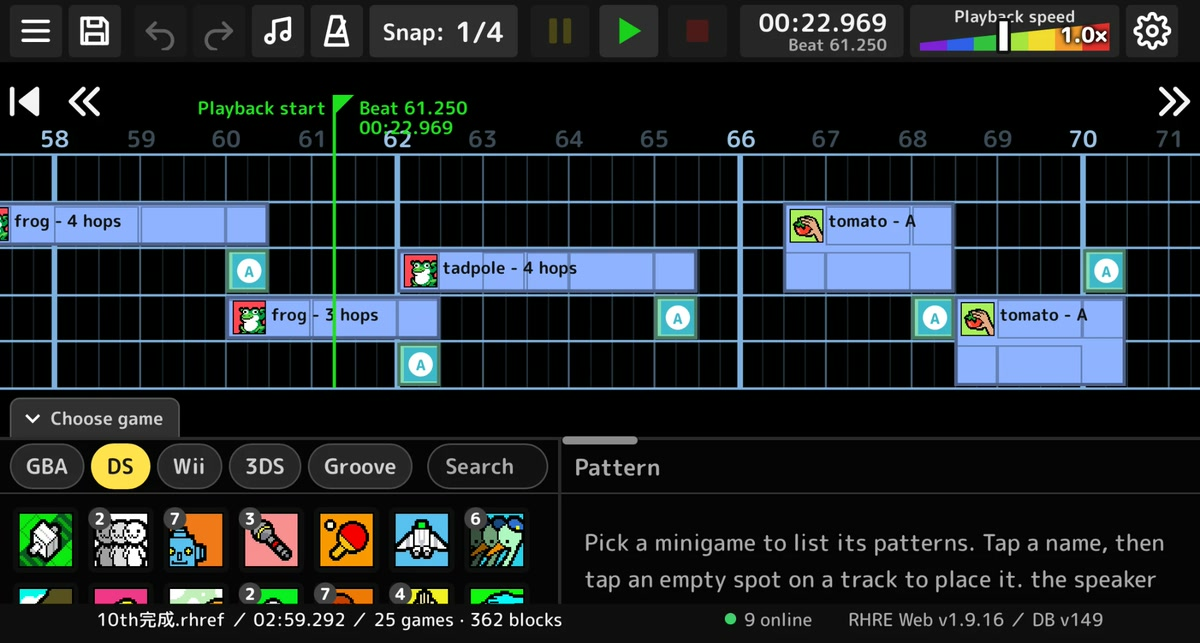
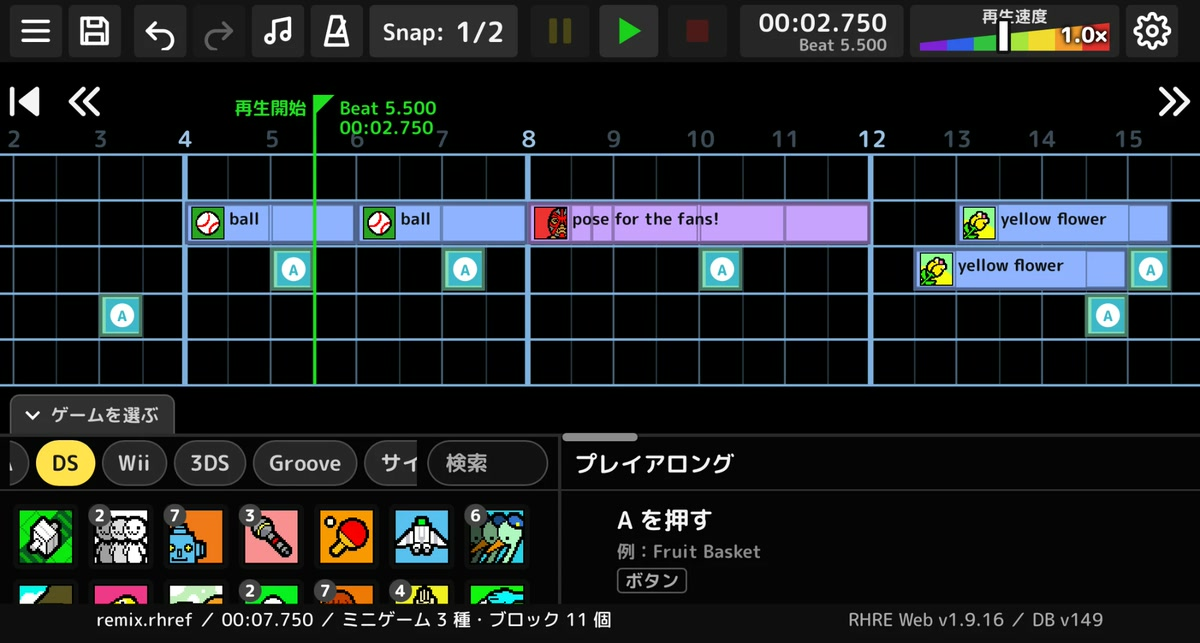
v1.9.18：リンクの画像を、本人が撮り直した画面に差し替える（日本語のページは日本語の画面、英語のページは英語の画面。1200×643）

diff --git a/index.html b/index.html
@@ -19,7 +19,7 @@
 <meta property="og:title" content="RHRE Web">
 <meta property="og:description" content="RHRE Web へようこそ！好きな曲に、リズム天国の効果音をのせて、自分だけのリミックスが作れちゃう！スマホやPCのブラウザですぐ遊べる、ファンメイドの無料エディタです。RHRE fresh（PC版）とも互換性あり。">
 <meta property="og:url" content="https://pika1013.github.io/rhre-web/">
-<meta property="og:image" content="https://pika1013.github.io/rhre-web/assets/og/og-ja.jpg?v=2">
+<meta property="og:image" content="https://pika1013.github.io/rhre-web/assets/og/og-ja.jpg?v=3">
 <meta property="og:image:width" content="1200">
 <meta property="og:image:height" content="643">
 <meta property="og:image:alt" content="RHRE Web の編集画面">
@@ -921,7 +921,7 @@
     </div>
     <div id="psTouch" aria-label="タッチの枠（タッチ・はじく・スライド）"><canvas></canvas></div>
   </section>
-  <footer id="status"><span id="statusText">読み込み中…</span><span id="onlineCount" hidden></span><span id="version">RHRE Web v1.9.17</span></footer>
+  <footer id="status"><span id="statusText">読み込み中…</span><span id="onlineCount" hidden></span><span id="version">RHRE Web v1.9.18</span></footer>
 </div>
 
 <div class="popover" id="snapMenu" hidden role="menu" aria-label="スナップ"></div>
@@ -1212,7 +1212,7 @@
 
 <div class="modal" id="helpModal" hidden>
   <div class="card">
-    <h2>RHRE Web v1.9.17</h2>
+    <h2>RHRE Web v1.9.18</h2>
     <div id="helpJa">
     <p>RHRE fresh の .rhref を開いて、デスクトップ版と同じ規則で再生・編集します。効果音は RHRE fresh と同じデータベースから、使う分だけ読み込みます。</p>
     <p><b>見る</b></p>
@@ -1323,7 +1323,7 @@
 <input type="file" id="musicInput" accept="audio/*,.mp3,.ogg,.wav,.m4a,.aac,.flac" hidden>
 <input type="file" id="imageInput" accept="image/*" hidden>
 <input type="file" id="customInput" accept="audio/*,.mp3,.ogg,.wav,.m4a,.aac,.flac" multiple hidden>
-<script type="module" src="js/app.js?v=97"></script>
+<script type="module" src="js/app.js?v=98"></script>
 <!-- アクセス数（GoatCounter：Cookie なし・個人を特定する情報は集めない）。
      更新したときの ?u=… などで別のページに分かれないように、ページ名は場所だけにする -->
 <script>window.goatcounter = { path: function () { return location.pathname || '/'; } };</script>

diff --git a/en/index.html b/en/index.html
@@ -16,7 +16,7 @@
 <meta property="og:title" content="RHRE Web – Make Rhythm Heaven remixes in your browser">
 <meta property="og:description" content="Put Rhythm Heaven sound effects on your favorite songs and make your own remixes, right in your phone or PC browser. Free, fan-made, and compatible with RHRE fresh.">
 <meta property="og:url" content="https://pika1013.github.io/rhre-web/en/">
-<meta property="og:image" content="https://pika1013.github.io/rhre-web/assets/og/og-en.jpg?v=2">
+<meta property="og:image" content="https://pika1013.github.io/rhre-web/assets/og/og-en.jpg?v=3">
 <meta property="og:image:width" content="1200">
 <meta property="og:image:height" content="643">
 <meta property="og:image:alt" content="The RHRE Web editor">
@@ -119,7 +119,7 @@
   </div>
 
   <figure class="shot">
-    <img src="../assets/og/og-en.jpg?v=2" alt="The RHRE Web editor: remix blocks on tracks, with the minigame list and pattern list below" width="1200" height="643">
+    <img src="../assets/og/og-en.jpg?v=3" alt="The RHRE Web editor: remix blocks on tracks, with the minigame list and pattern list below" width="1200" height="643">
   </figure>
 
   <section>

diff --git a/js/changelog.js b/js/changelog.js
@@ -3,6 +3,11 @@
 // 使う人に向けた短い言葉で書く。隠し機能は書かない
 export const CHANGELOG = [
   {
+    v: '1.9.18', date: '2026-11-13',
+    ja: ['リンクを貼ったときに出る画像を、日本語のページは日本語の画面、英語のページは英語の画面にしました'],
+    en: ['The picture shown when you share a link now matches the page language (Japanese screen for the Japanese page, English screen for the English page).'],
+  },
+  {
     v: '1.9.17', date: '2026-11-13',
     ja: ['リンクを貼ったときに出る画像を変えました'],
     en: ['Changed the picture shown when you share a link to RHRE Web.'],

diff --git a/js/app.js b/js/app.js
@@ -7,9 +7,9 @@ import { EditorView, fmtTime, LABELS, applyTheme, FONT, loadIcon } from './view.
 import { makeZip } from './zip.js?v=4';
 import { PLAYALONG_GAME_ID, PlayalongJudge, WINDOW } from './playalong.js?v=4';
 import { canRenderFast, canRecord, renderVideoFast, recordVideoRealtime } from './video.js?v=9';
-import { CHANGELOG } from './changelog.js?v=24';
+import { CHANGELOG } from './changelog.js?v=25';
 
-const VERSION = '1.9.17';
+const VERSION = '1.9.18';
 const t2 = t; // ループの変数名 t と重ならないように
 const CUSTOM_GAME_ID = 'custom_web';
 const $ = (id) => document.getElementById(id);

diff --git a/README.md b/README.md
@@ -1,4 +1,4 @@
-# RHRE Web v1.9.17
+# RHRE Web v1.9.18
 
 [RHRE fresh](https://github.com/RHREfresh/RhythmHeavenRemixEditorRefresh) のリミックス（`.rhref`）を、スマホやPCのブラウザで作って再生できるエディタです。
 
